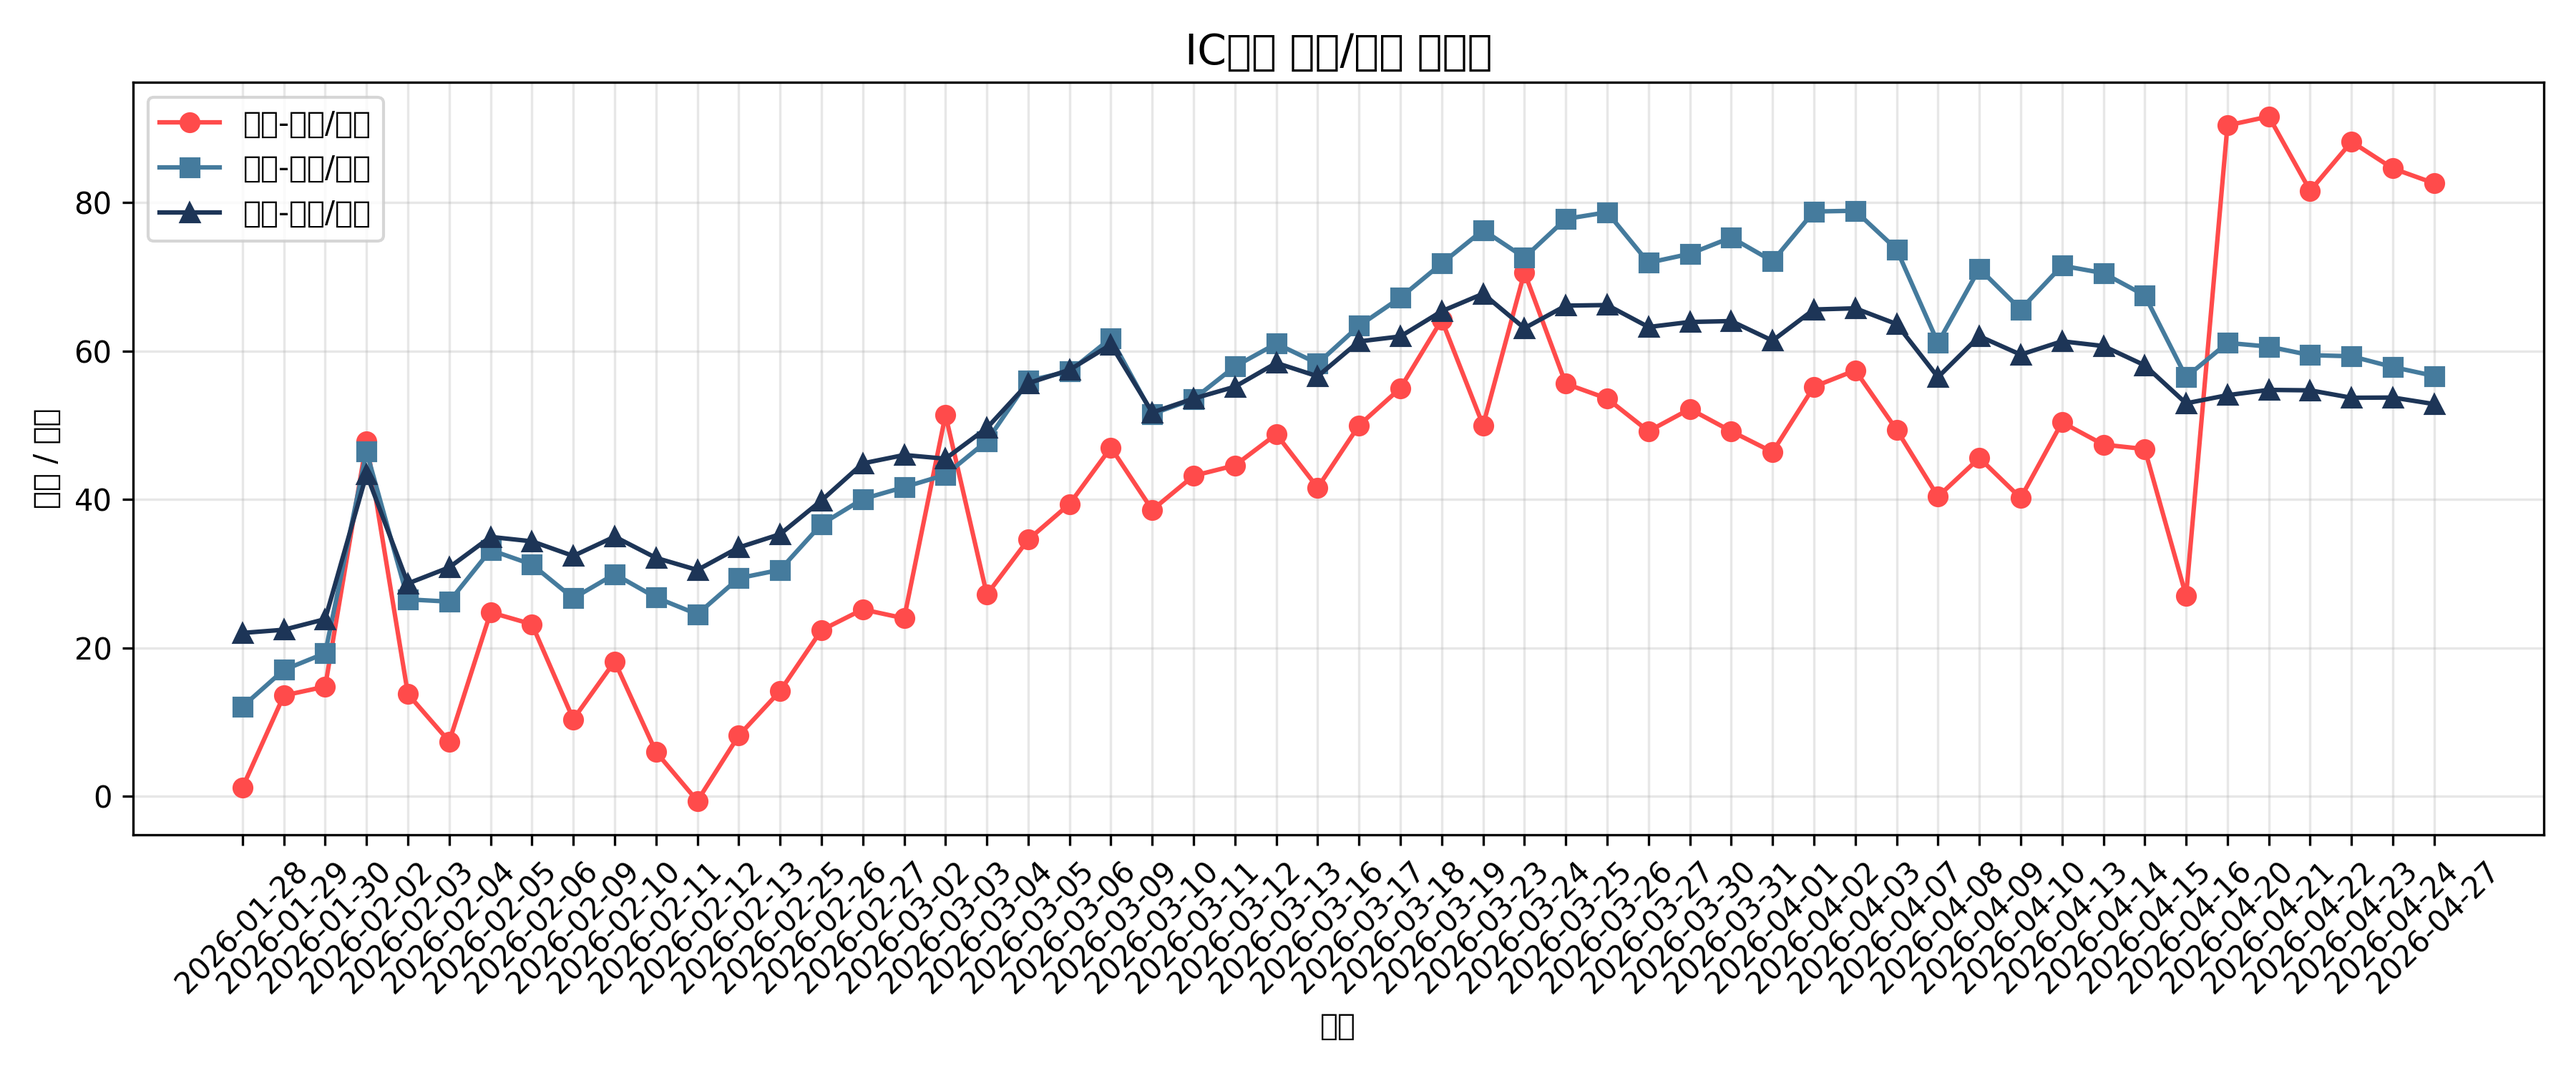
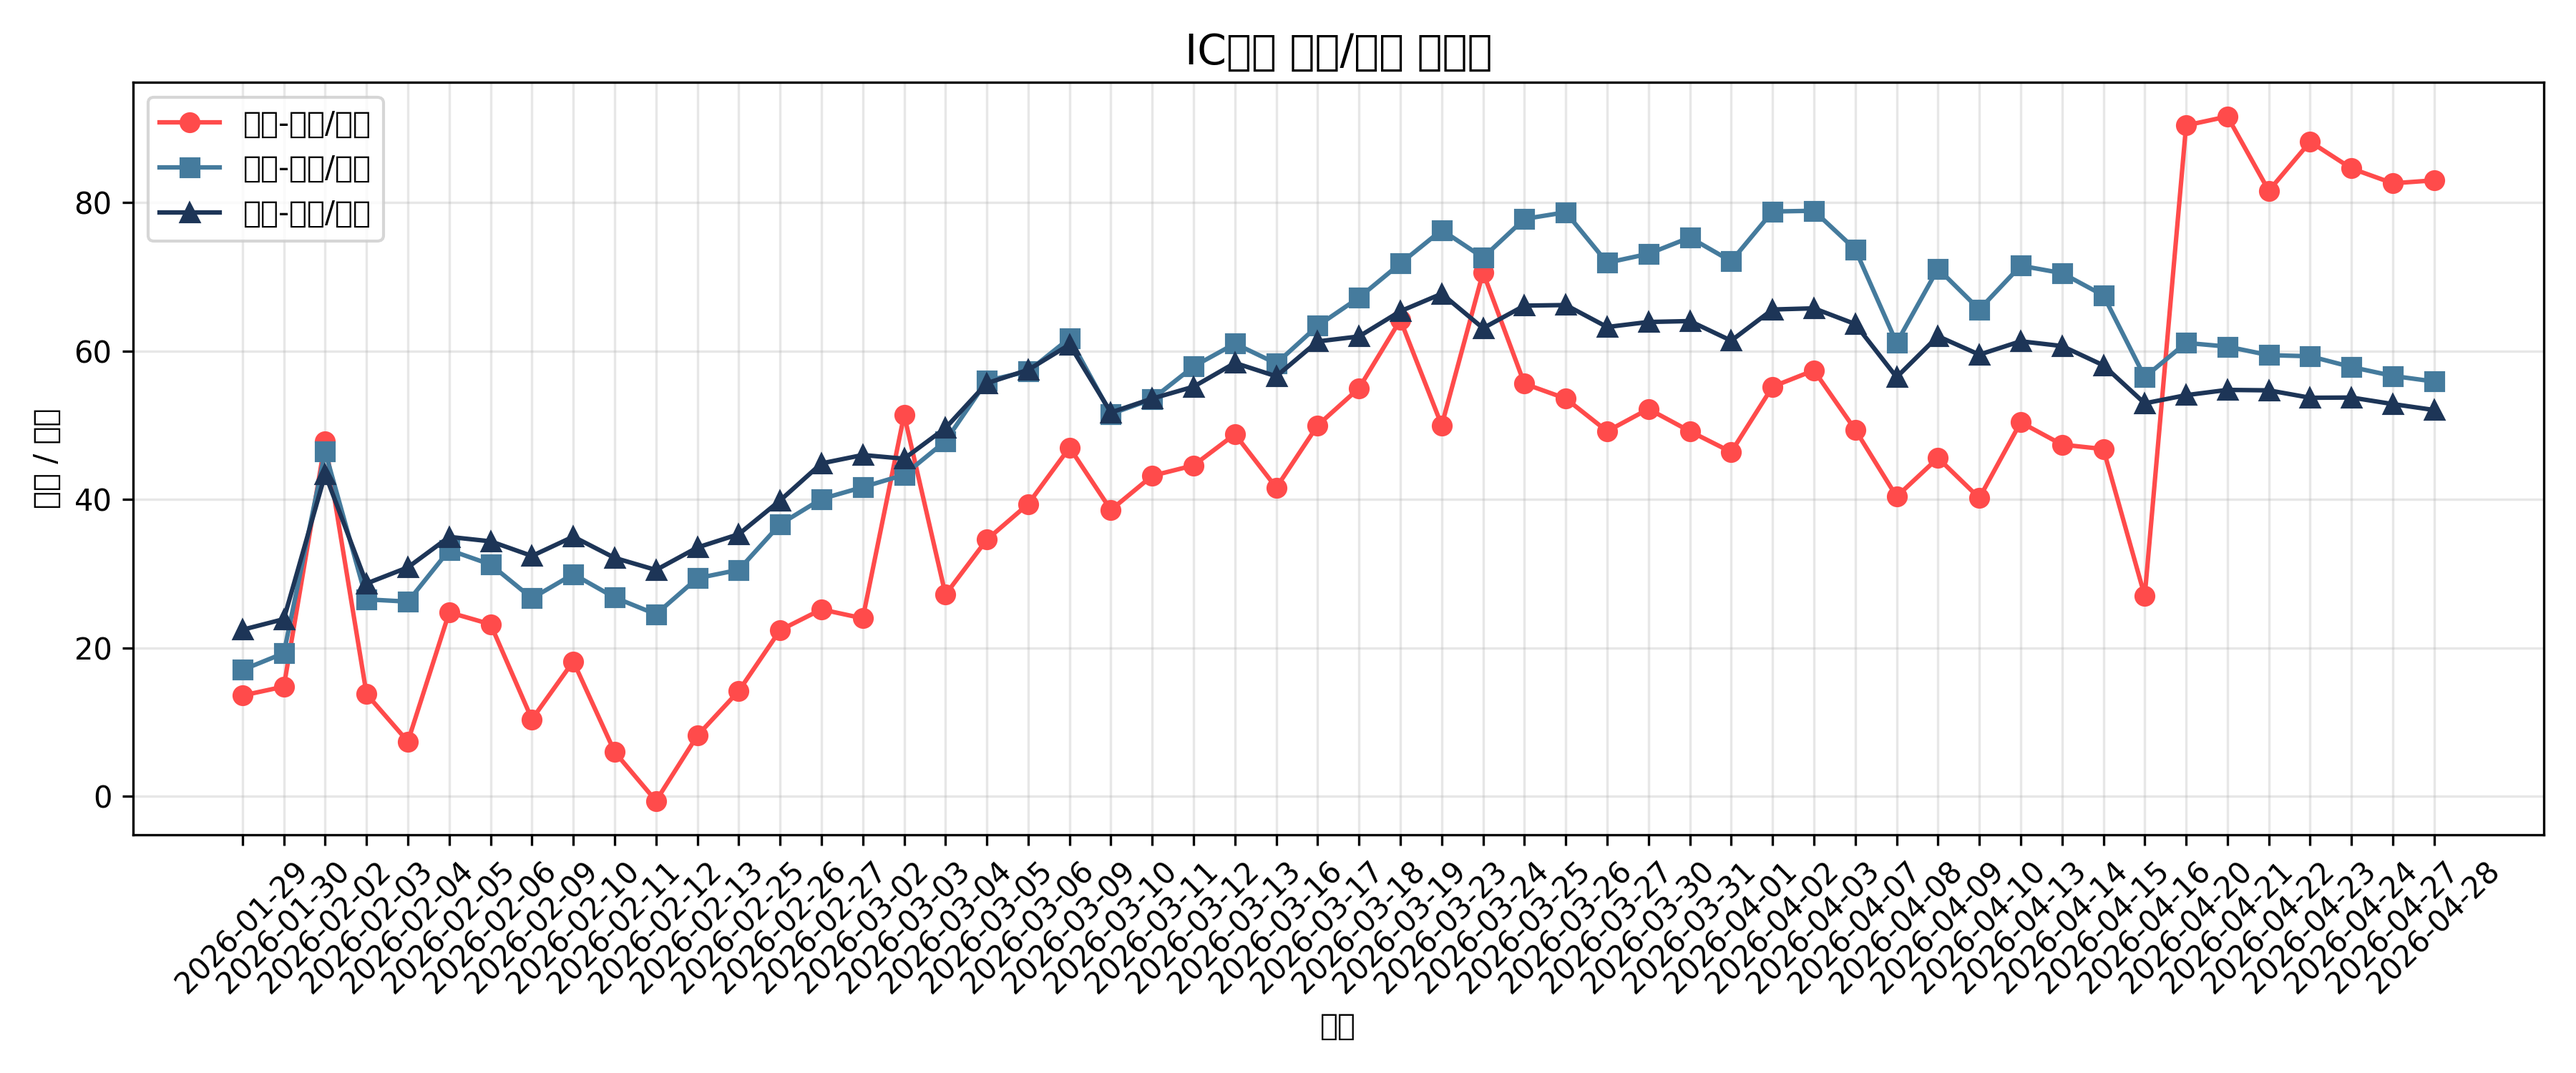
deploy: 4d1bb30b7b0bf8623cc214497fc979b4192c654b

diff --git a/index.html b/index.html
@@ -84,19 +84,19 @@
 <body>
     <div class="container">
         <h1>IC期货基差监控</h1>
-        <div class="last-updated">最后更新：2026-04-27 18:34:28</div>
+        <div class="last-updated">最后更新：2026-04-28 18:33:58</div>
         
         <div class="stats">
             <div class="stat-card">
-                <div class="stat-value">82.6</div>
+                <div class="stat-value">83.0</div>
                 <div class="stat-label">当月-下月/月差</div>
             </div>
             <div class="stat-card">
-                <div class="stat-value">56.65</div>
+                <div class="stat-value">55.9</div>
                 <div class="stat-label">当月-当季/月差</div>
             </div>
             <div class="stat-card">
-                <div class="stat-value">52.86</div>
+                <div class="stat-value">52.06</div>
                 <div class="stat-label">当月-下季/月差</div>
             </div>
         </div>
@@ -114,14 +114,6 @@
                 <th>当月-下月/月差</th>
                 <th>当月-当季/月差</th>
                 <th>当月-下季/月差</th>
-            </tr>
-
-            <tr>
-                <td>2026-04-16</td>
-                <td>IC2604</td>
-                <td>27.0</td>
-                <td>56.5</td>
-                <td>52.96</td>
             </tr>
 
             <tr>
@@ -170,6 +162,14 @@
                 <td>82.6</td>
                 <td>56.65</td>
                 <td>52.86</td>
+            </tr>
+
+            <tr>
+                <td>2026-04-28</td>
+                <td>IC2605</td>
+                <td>83.0</td>
+                <td>55.9</td>
+                <td>52.06</td>
             </tr>
 
         </table>
